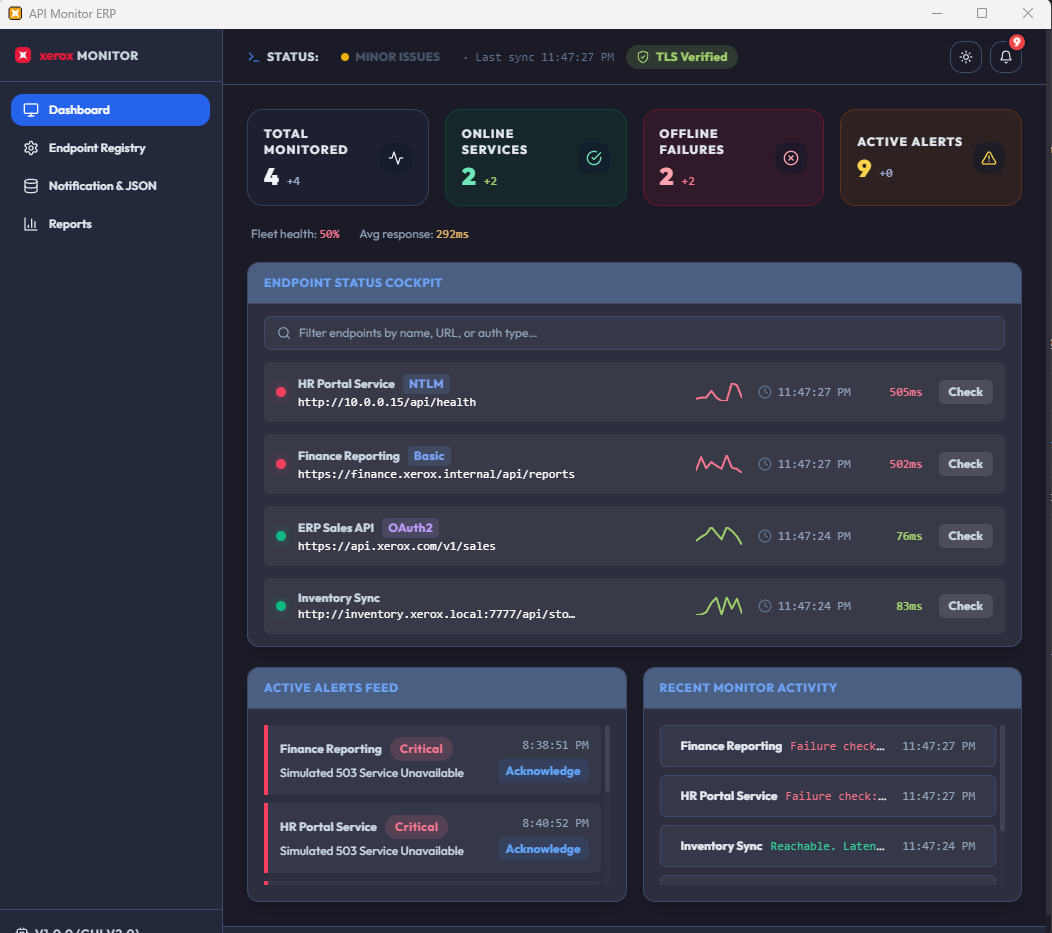
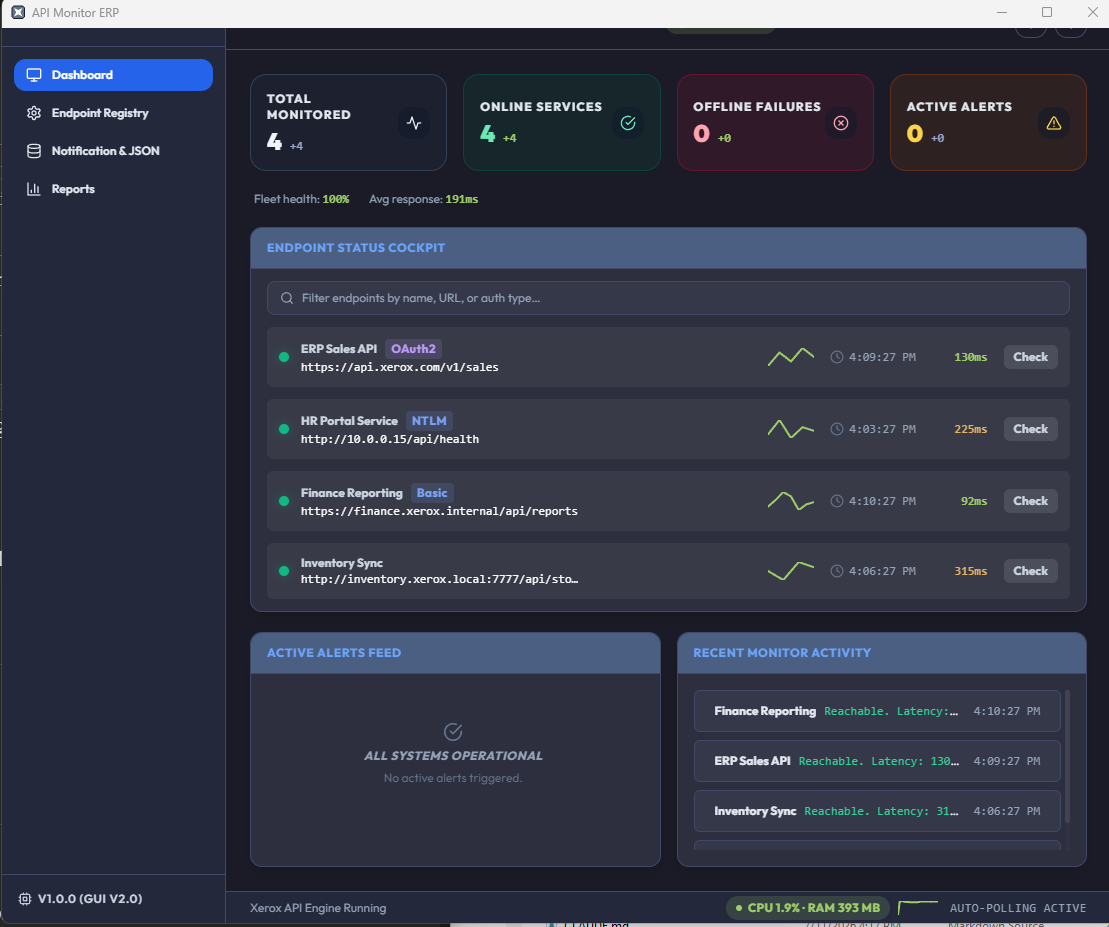
docs: close remaining README gaps - footprint widget, threshold, wording
- Updated Dashboard screenshot showing the live self-monitoring footprint
  widget in the footer (CPU % / RAM MB), and captioned it: the number is
  measured and displayed by the app itself, and it ambers itself if it
  ever crosses its own threshold - turning the figure from something to
  defend into a feature to point at.
- Added the per-endpoint degraded-latency threshold to the "What You
  Get" table - shipped, but previously unmentioned.
- Corrected Design Principles #3: the prior wording ("gaps shown as
  no-data") implied an explicit gap-visualization feature that doesn't
  exist - history has no timestamps to plot a gap against. Reworded to
  describe what actually happens: statuses reset to pending and
  re-verify in a staggered sweep, never showing a stale status as
  current; latency history persists across restarts.

diff --git a/README.md b/README.md
@@ -98,7 +98,7 @@ API Monitor ERP Desktop is a Windows-native monitoring product built for interna
 
 | Capability | Delivered Value |
 |---|---|
-| Endpoint Monitoring | Recurring checks with per-endpoint intervals and timeout controls |
+| Endpoint Monitoring | Recurring checks with per-endpoint intervals, timeout, and degraded-latency threshold controls |
 | Enterprise Auth | API Key, NTLM, mTLS certs, OAuth2 client credentials, Basic, Session Cookie |
 | Alerting | Native notifications, SMTP email, and webhook channels |
 | Tray Operations | Background checks continue with tray controls and quick actions |
@@ -179,7 +179,7 @@ This protects the customer's own Active Directory infrastructure from the monito
 
 1. One endpoint equals one probe and one source of truth for status, history, and alerts.
 2. Monitoring is read-only and does not mutate monitored systems.
-3. On restart, statuses reset to a clean pending state and all endpoints are re-verified in a staggered sweep; history persists, and gaps are shown as no-data rather than a false status.
+3. On restart, statuses reset to a clean pending state and all endpoints are re-verified in a staggered sweep — never displaying a stale pre-restart status as current while re-verification is still in progress. Latency history persists across restarts.
 
 ---
 
@@ -226,7 +226,7 @@ Implementation note: agents are cached per endpoint (`agentCache` in `electron/m
 
 ![Dashboard Status Cockpit](Pictures/screenshot-dashboard.png)
 
-Status summary, endpoint health, active alerts, and recent activity feed.
+Status summary, endpoint health, active alerts, and recent activity feed — including a live self-monitoring footprint widget in the footer (CPU % · RAM MB, measured and displayed by the app itself), so "is this a memory hog?" is answered by the running product rather than a claim. It ambers itself if it ever crosses its own threshold (10% sustained CPU or 500MB RAM).
 
 ### Endpoint Registry
 